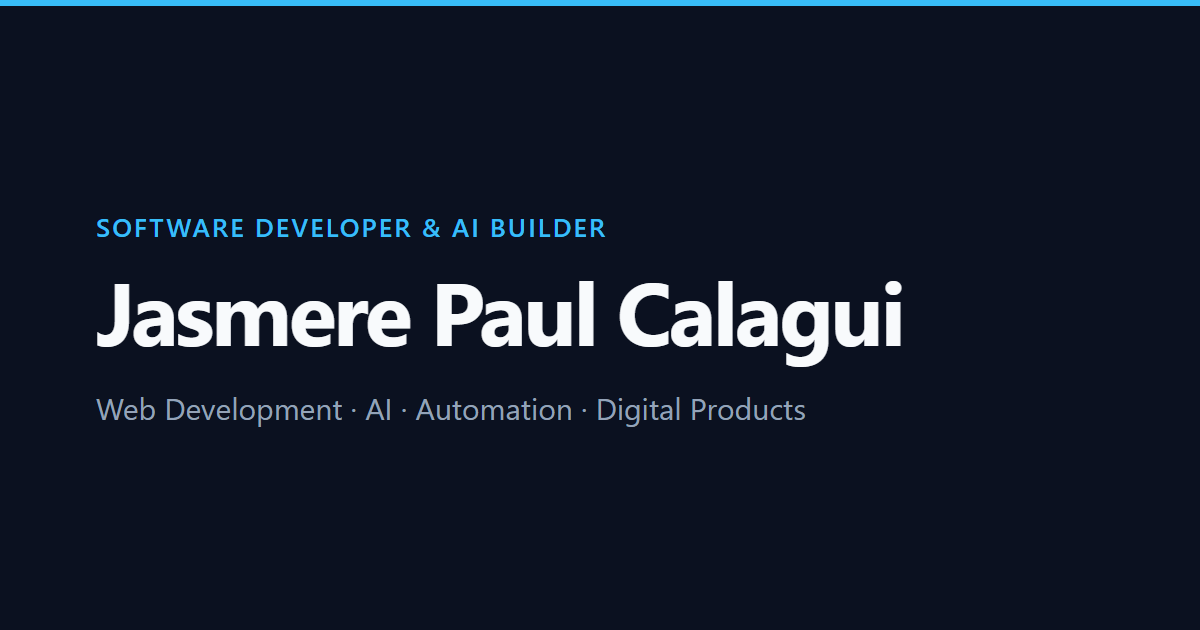
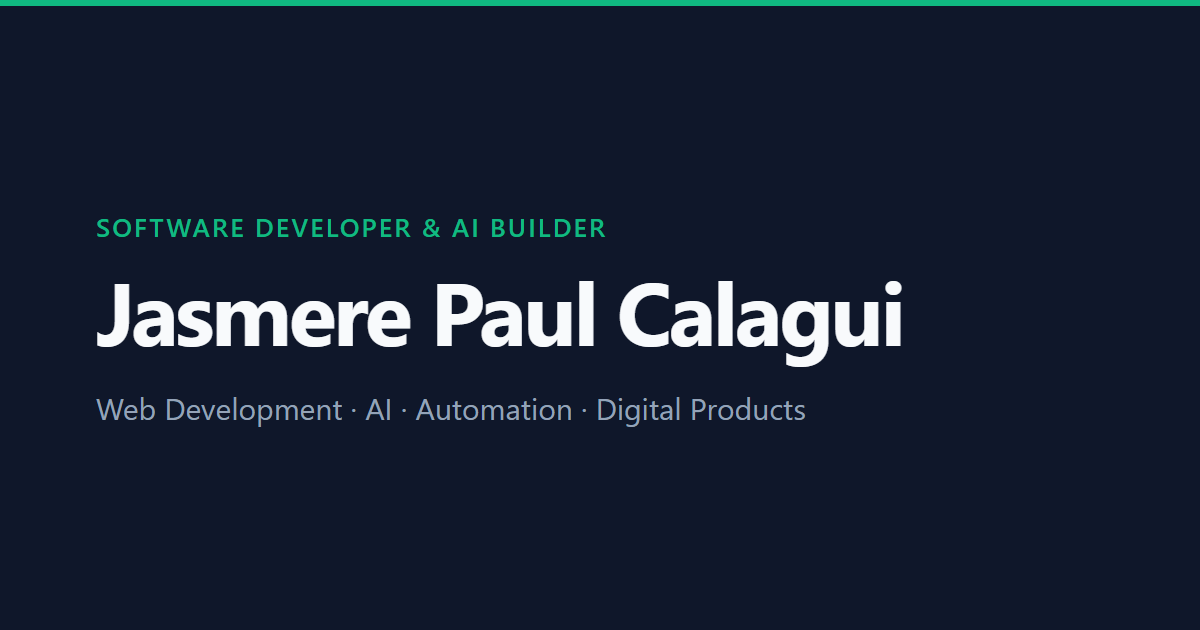
Switch to slate + emerald palette as default theme

Changed region(s): [[0.0, 0.0, 1.0, 0.0302], [0.0925, 0.3317, 0.5242, 0.3921]]

diff --git a/src/styles/global.css b/src/styles/global.css
@@ -1,36 +1,36 @@
 :root,
+:root[data-theme='dark'] {
+  --bg: #0f172a;
+  --surface: #1e293b;
+  --surface-2: #172033;
+  --text: #f8fafc;
+  --muted: #94a3b8;
+  --accent: #10b981;
+  --accent-hover: #34d399;
+  --on-accent: #0f172a;
+  --border: #334155;
+  --border-strong: #475569;
+  --tag-bg: rgba(16, 185, 129, 0.12);
+  --tag-text: #6ee7b7;
+  --shadow: 0 1px 0 rgba(255, 255, 255, 0.03) inset, 0 20px 40px -24px rgba(0, 0, 0, 0.6);
+  color-scheme: dark;
+}
+
 :root[data-theme='light'] {
   --bg: #f9f9f8;
   --surface: #efefef;
   --surface-2: #e8e8e6;
   --text: #1a1a1a;
   --muted: #5c5c5c;
-  --accent: #2563eb;
-  --accent-hover: #1d4ed8;
+  --accent: #047857;
+  --accent-hover: #065f46;
   --on-accent: #ffffff;
   --border: #e2e2df;
   --border-strong: #c9c9c5;
-  --tag-bg: rgba(37, 99, 235, 0.08);
-  --tag-text: #1d4ed8;
+  --tag-bg: rgba(4, 120, 87, 0.08);
+  --tag-text: #047857;
   --shadow: 0 20px 40px -28px rgba(26, 26, 26, 0.22);
   color-scheme: light;
-}
-
-:root[data-theme='dark'] {
-  --bg: #0b1120;
-  --surface: #111827;
-  --surface-2: #0f172a;
-  --text: #f8fafc;
-  --muted: #94a3b8;
-  --accent: #38bdf8;
-  --accent-hover: #0ea5e9;
-  --on-accent: #0b1120;
-  --border: #1e293b;
-  --border-strong: #334155;
-  --tag-bg: rgba(56, 189, 248, 0.08);
-  --tag-text: #7dd3fc;
-  --shadow: 0 1px 0 rgba(255, 255, 255, 0.03) inset, 0 20px 40px -24px rgba(0, 0, 0, 0.6);
-  color-scheme: dark;
 }
 
 *,
@@ -123,8 +123,8 @@ a:hover .card__cta .arrow,
 }
 .icon-btn:hover { border-color: var(--border-strong); }
 .icon-btn svg { width: 18px; height: 18px; fill: none; stroke: currentColor; stroke-width: 2; stroke-linecap: round; stroke-linejoin: round; }
-:root:not([data-theme='dark']) .i-moon,
-:root[data-theme='dark'] .i-sun { display: none; }
+:root[data-theme='light'] .i-moon,
+:root:not([data-theme='light']) .i-sun { display: none; }
 
 /* Navigation */
 .nav {
